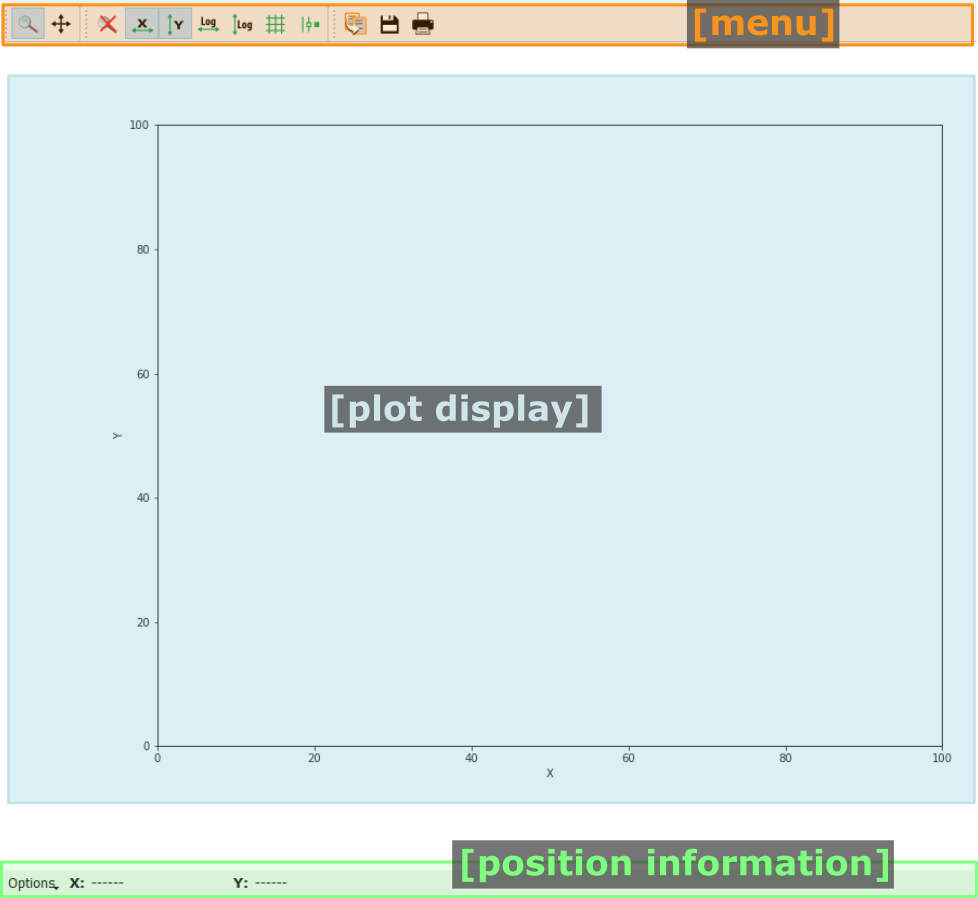
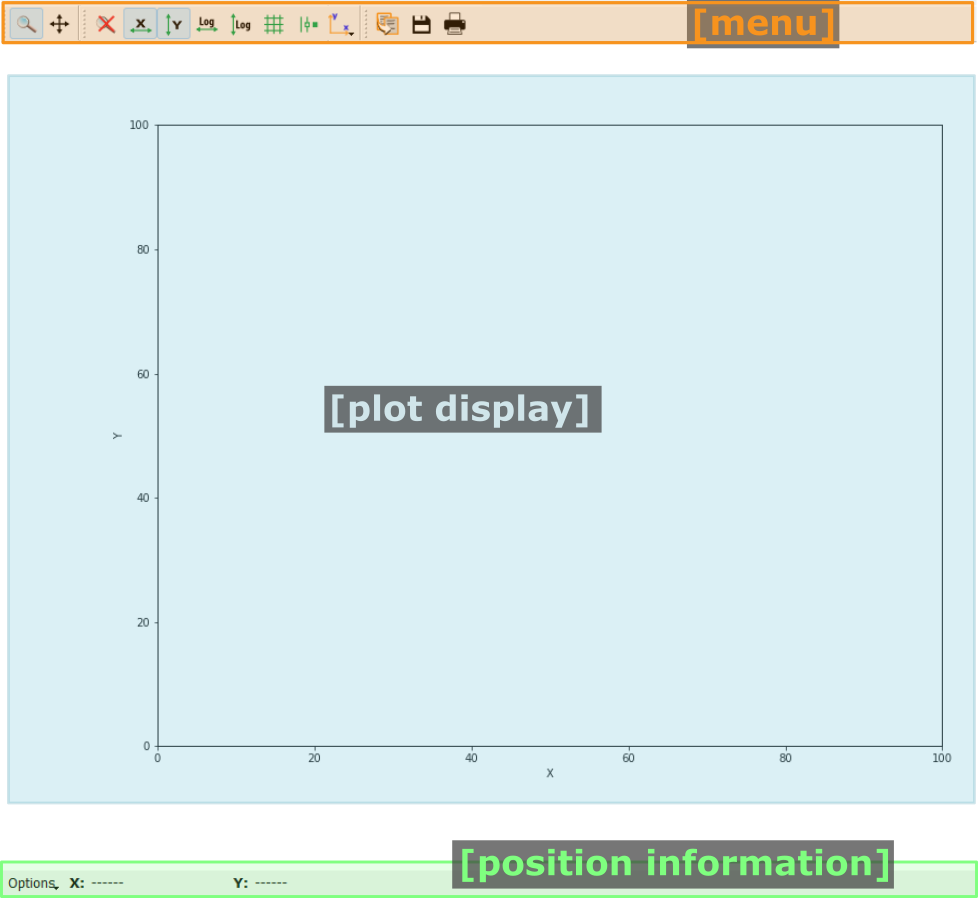
Added documentation for new Kratky-type plots.

Changed region(s): [[0.0, 0.0, 1.0, 0.0624]]

diff --git a/pydidas/docs/src/manuals/gui/silx/plot1d.rst b/pydidas/docs/src/manuals/gui/silx/plot1d.rst
@@ -71,6 +71,15 @@ menu entries description
             :align: center
       - Change the drawing style. Repeatedly using this button will cycle 
         through lines, dots, and lines & dots styles for the curve.
+    * -  .. image:: ../silx/images/menu_plot_type_generic.png
+            :align: center
+      - Change the plotted data to the generic y vs. x plot without any special
+        operations.
+    * -  .. image:: ../silx/images/menu_plot_type_kratky.png
+            :align: center
+      - Plot data in a Kratky-type plot using y * x^2 vs. x for the y and 
+        x-axis, respectively. This plot allows, for example, to correct for the 
+        q-dependence of the scattering intensity in small angle scattering.
     * -  .. image:: ../silx/images/menu_copy_to_clipboard.png
             :align: center
       - Copy the currently visible figure to the clipboard.            
